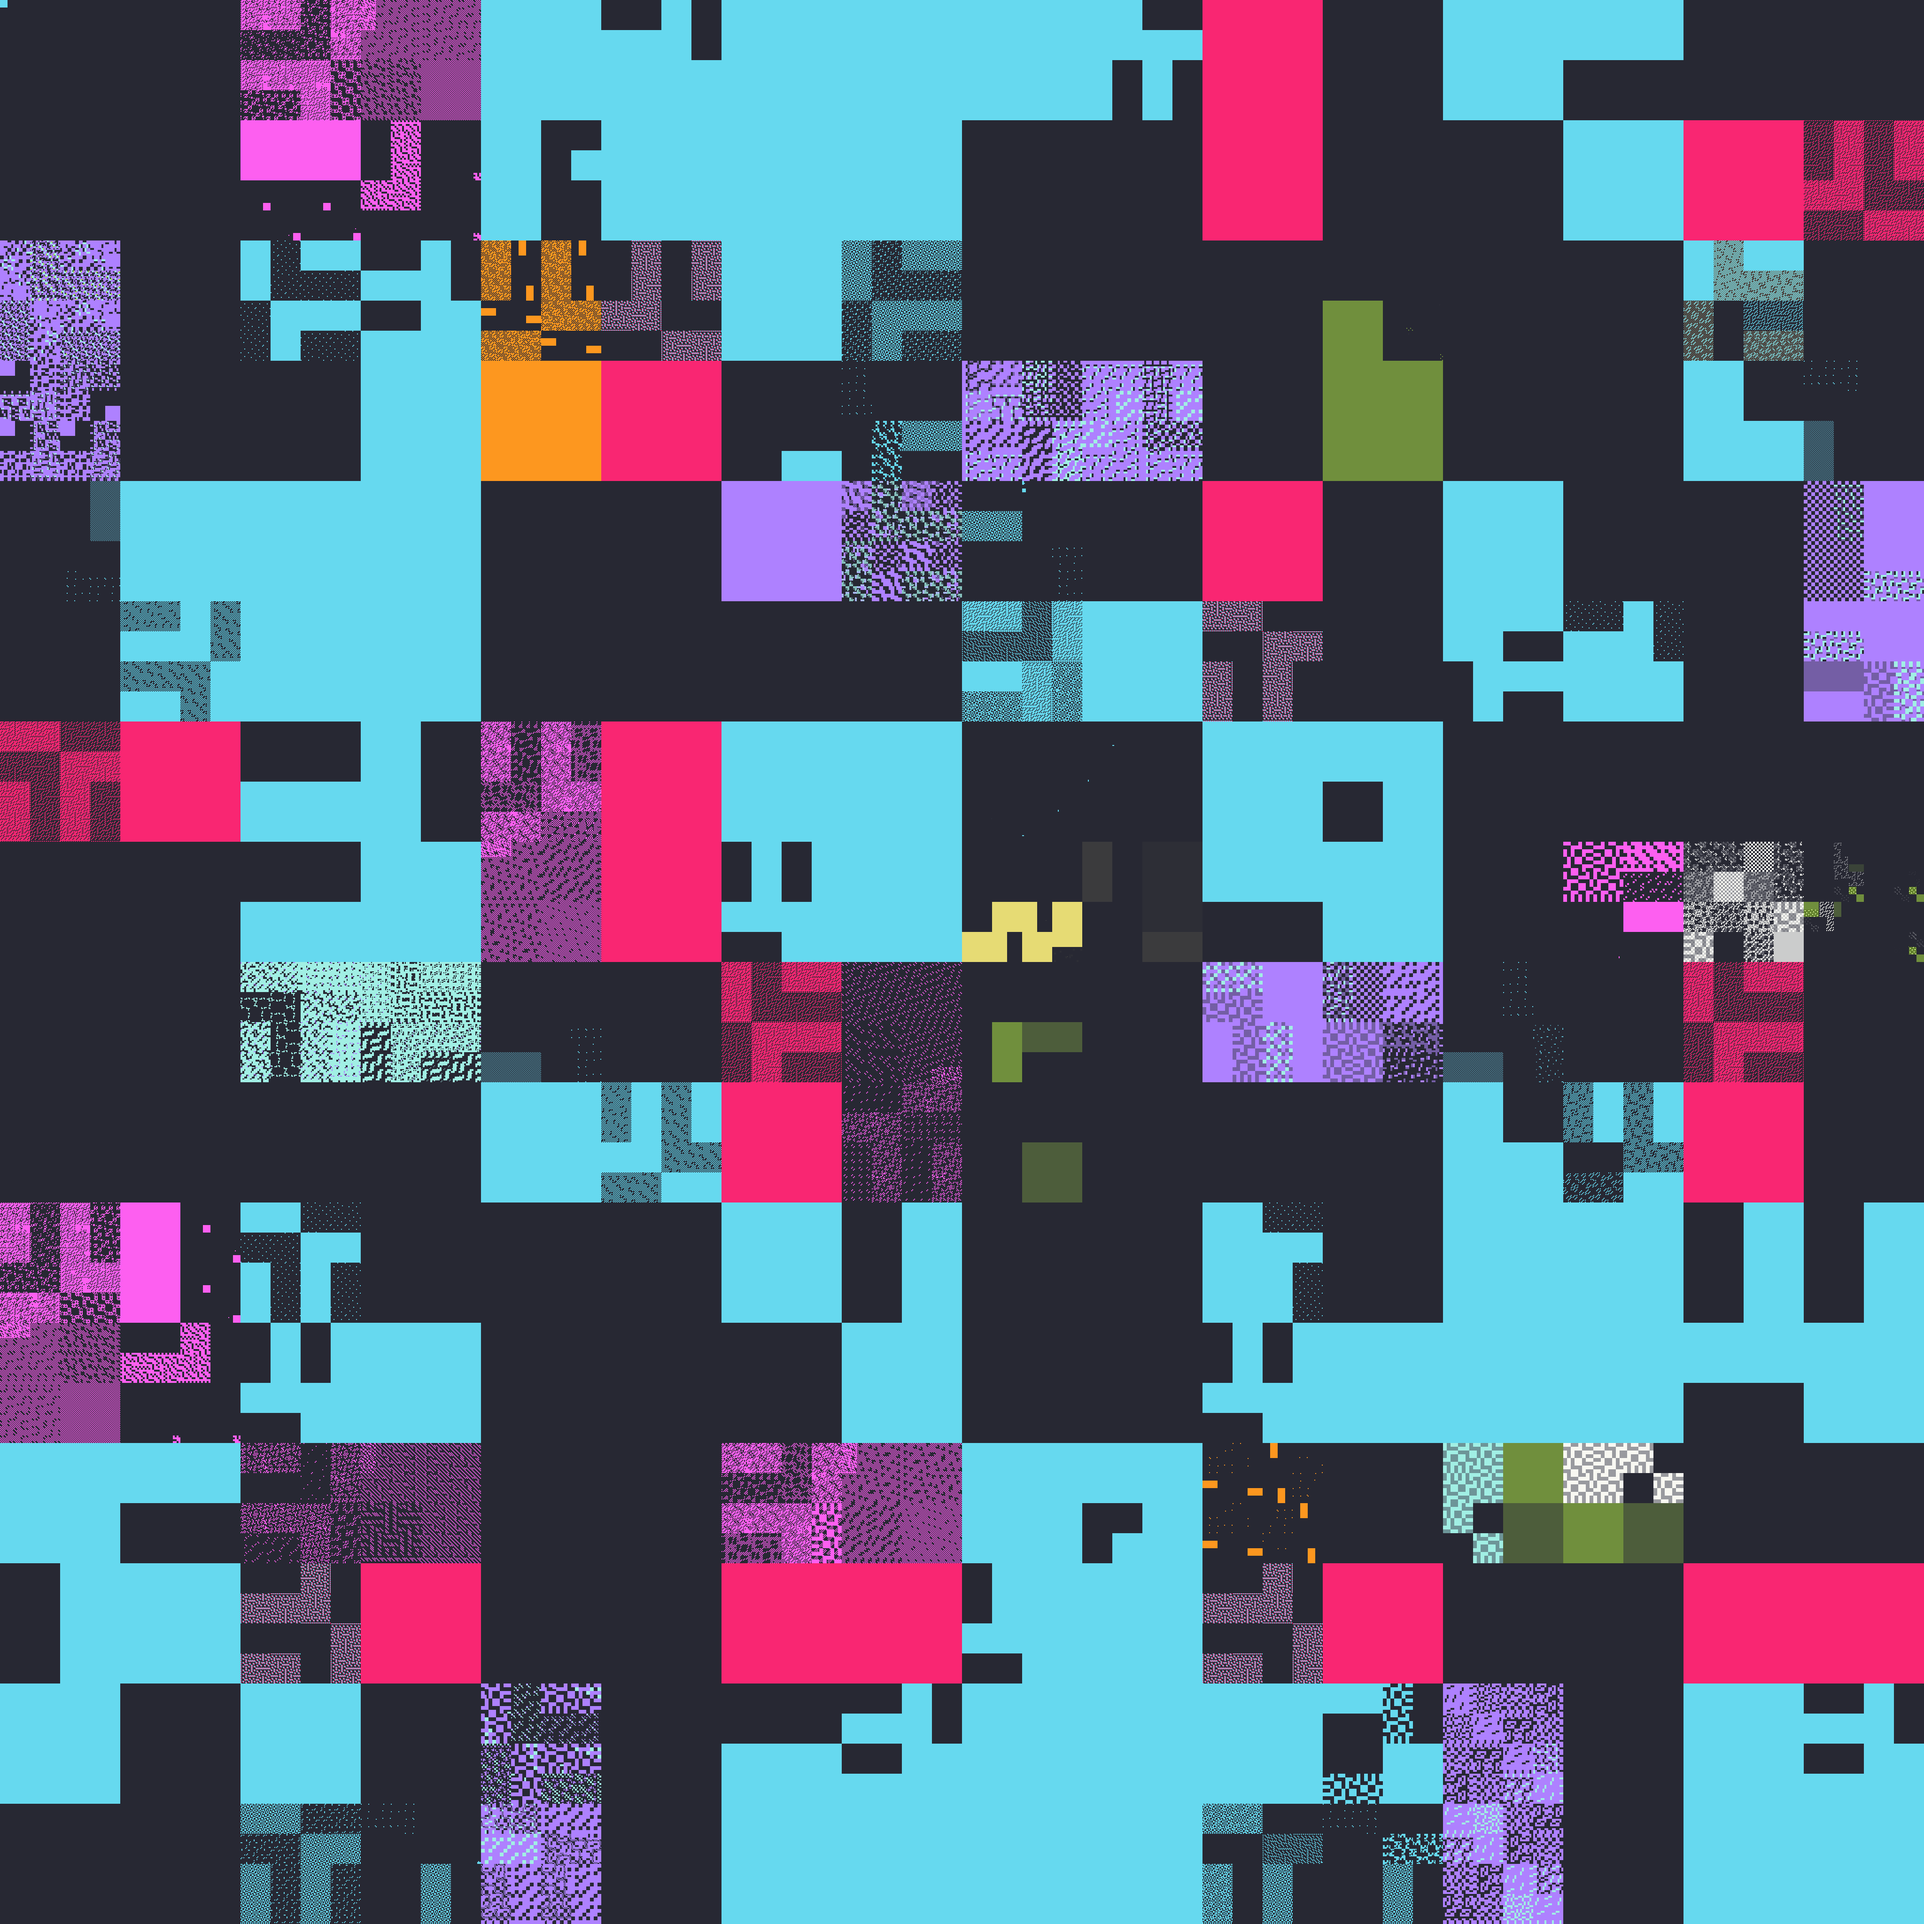
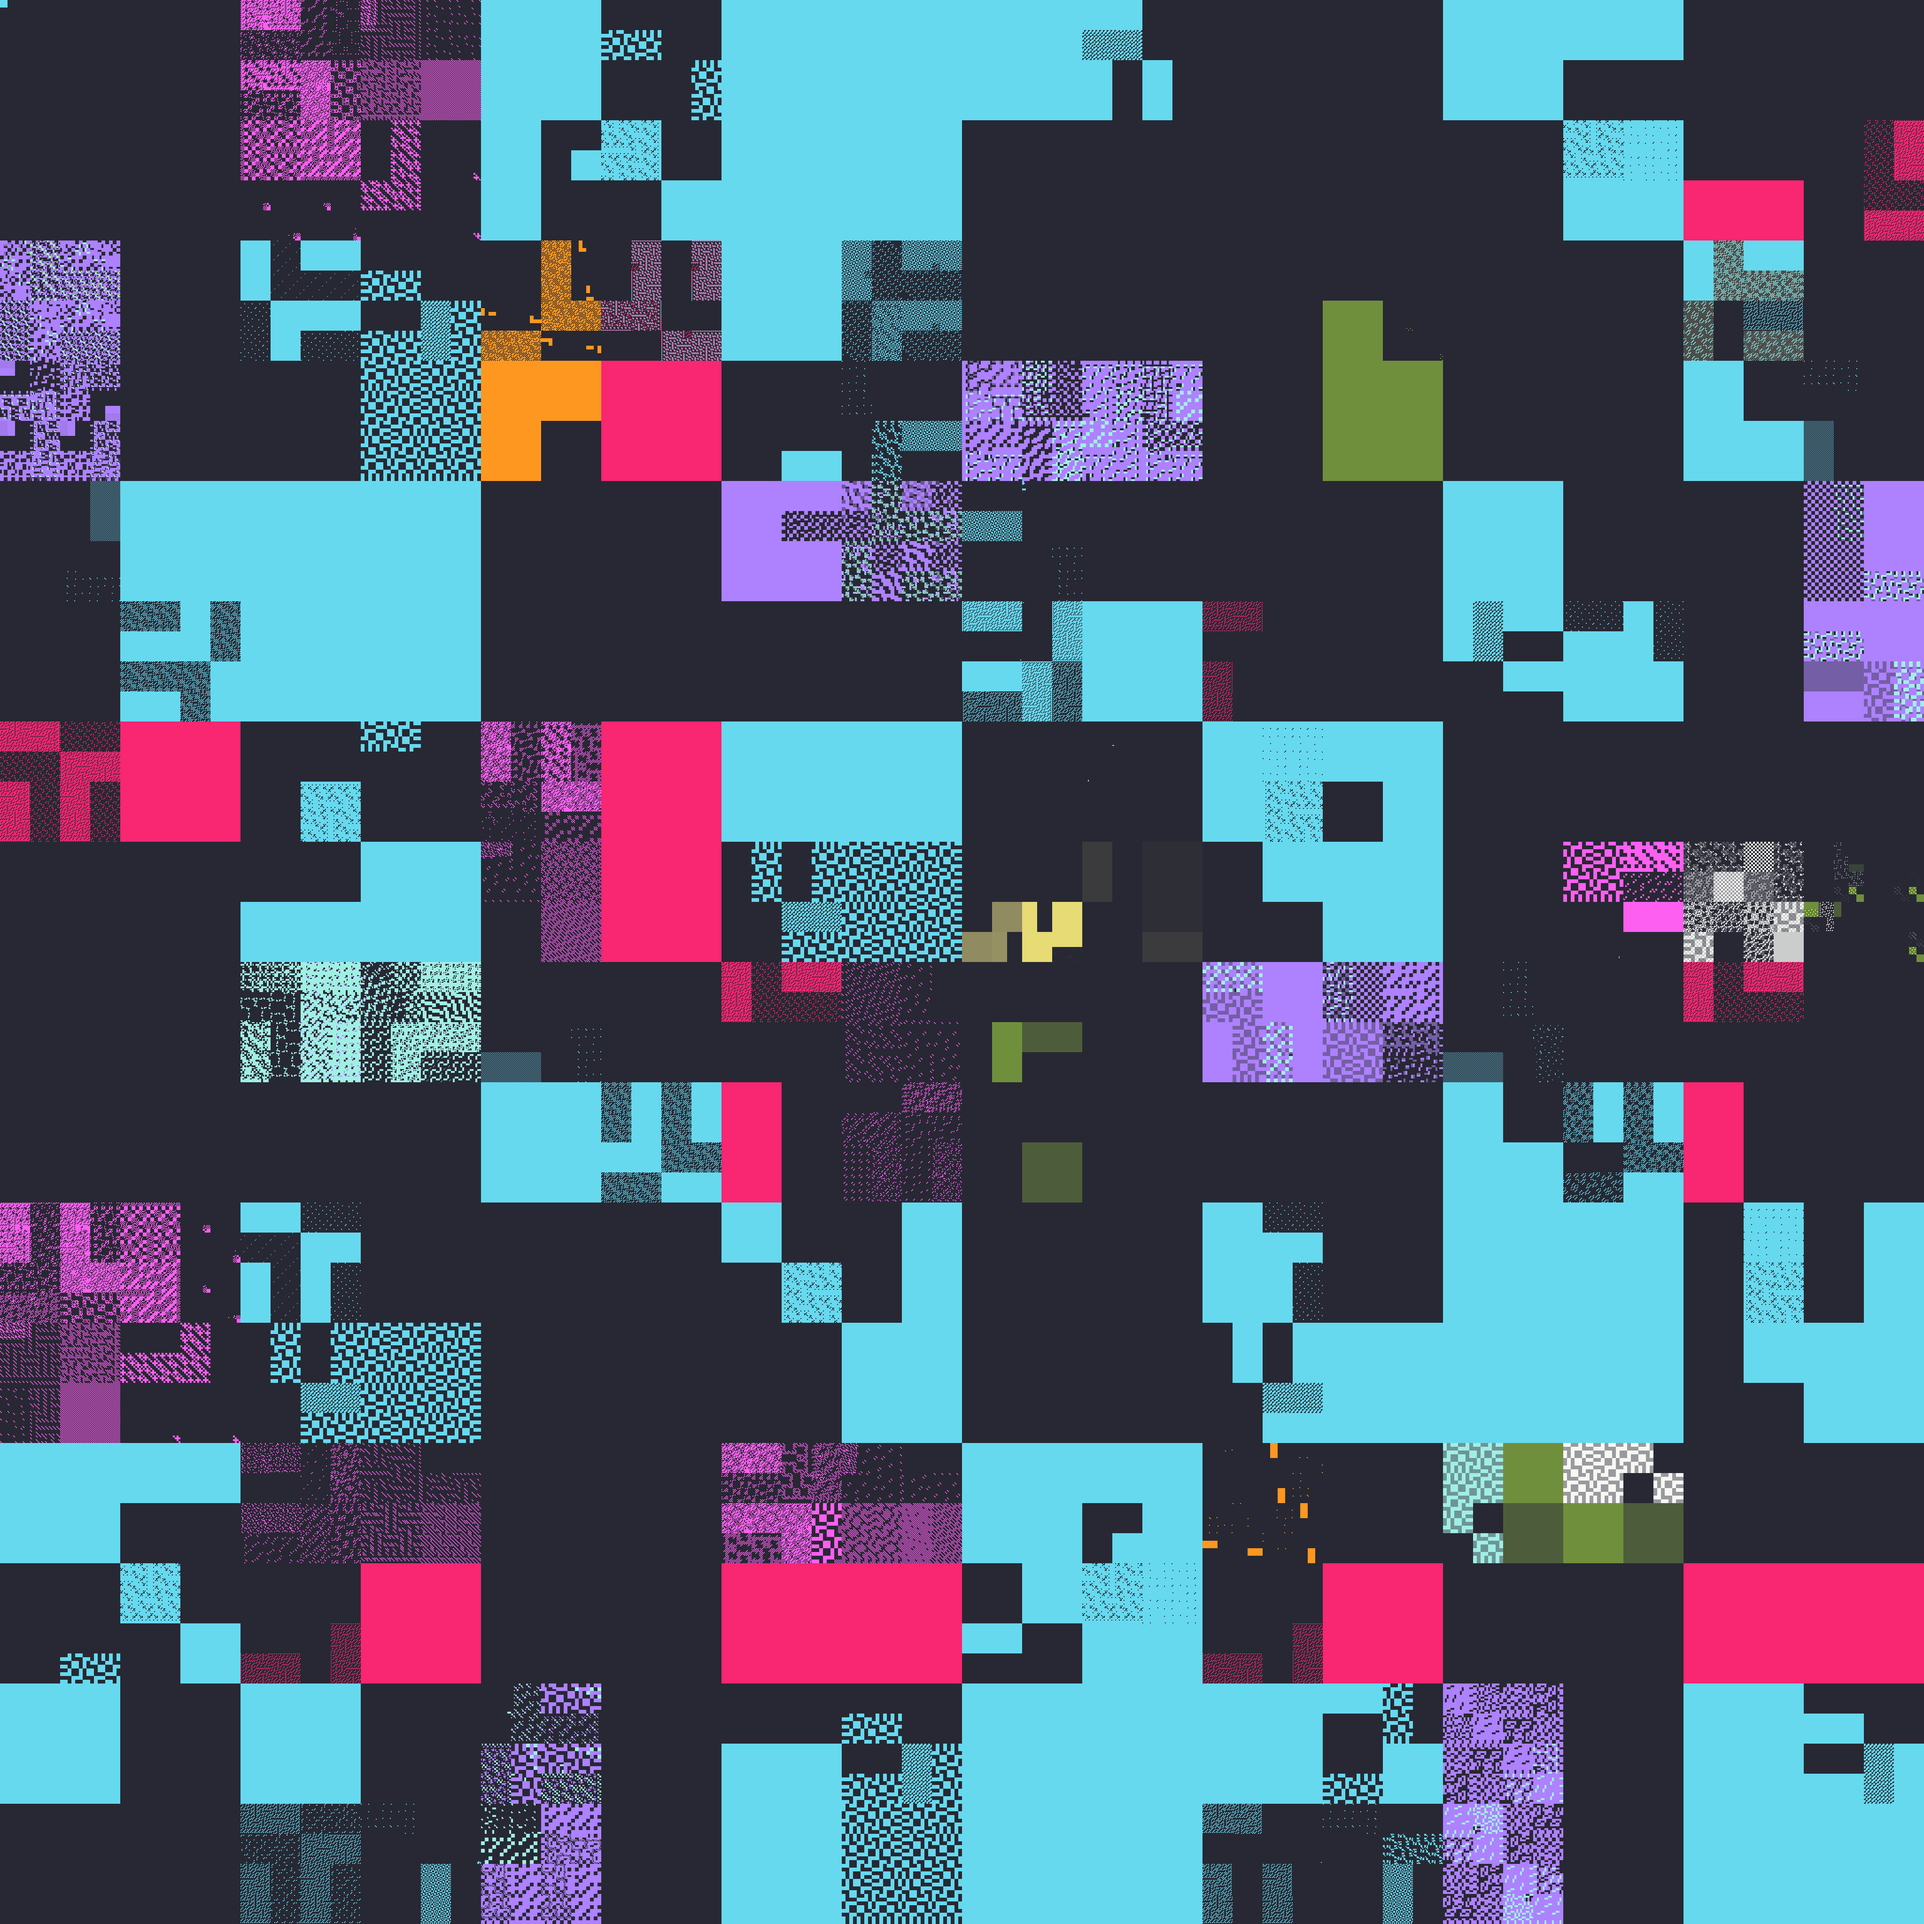
Add post processing pass

diff --git a/postprocess/capstone.c b/postprocess/capstone.c
@@ -1,0 +1,44 @@
+#include <fcntl.h>
+#include <capstone/capstone.h>
+#include <string.h>
+#include <unistd.h>
+#include <stdint.h>
+#include <sys/mman.h>
+
+int main(int argc, char* argv[]) {
+    csh handle;
+    if (cs_open(CS_ARCH_AARCH64, CS_MODE_ARM, &handle) != CS_ERR_OK) {
+        fprintf(stderr, "could not open arm64 disassembler\n");
+        return 1;
+    }
+    size_t n_verify = 0x0ffffffffULL + 1;
+    int fd = open(argv[1], O_RDWR);
+    if (fd < 0) {
+        perror("open");
+    }
+
+    int16_t* data = mmap(NULL, n_verify * sizeof(int16_t), PROT_READ | PROT_WRITE, MAP_SHARED, fd, 0);
+    if (data == (int16_t*) -1) {
+        perror("mmap");
+    }
+
+    size_t size = sizeof(uint32_t);
+    for (size_t i = 0; i < n_verify; i++) {
+        if (i % 10000000 == 0) {
+            printf("%.3f\n", (float) i / (float) n_verify * 100);
+        }
+        if (data[i] != -1) {
+            cs_insn* insn;
+            uint32_t idat = (uint32_t) i;
+            size_t count = cs_disasm(handle, (const uint8_t*) &idat, size, 0, 1, &insn);
+            if (count != 1) {
+                data[i] = -1;
+                continue;
+            }
+            cs_free(insn, 1);
+        }
+    }
+    close(fd);
+
+    return 0;
+}

diff --git a/cmd/arm-map/main.go b/cmd/arm-map/main.go
@@ -14,6 +14,11 @@ import (
 // map format is
 // <32-bit value> (<class>:<subclass>:<count> )*
 
+type line struct {
+	class    uint16
+	subclass uint16
+}
+
 func main() {
 	armdat := flag.String("data", "arm64.dat", "full arm64 data file")
 	armjson := flag.String("json", "arm64.json", "arm64 JSON encodings file")
@@ -39,7 +44,7 @@ func main() {
 		log.Fatal(err)
 	}
 	log.Println("mapping...")
-	classes := make([]uint16, mra.InstrNumIDs+1)
+	classes := make([]line, mra.InstrNumIDs+1)
 	n := 256
 	for i := 0; i < len(b); i += n {
 		if i%10000000 == 0 {

diff --git a/README.md b/README.md
@@ -33,6 +33,7 @@ $ arm-classify MRA_ISA > data/arm64.json
 $ go run cmd/arm-gen/decode_gen.go data/arm64.json > cmd/arm-gen/decode.go # regenerate decode.go
 $ go install ./cmd/arm-gen # rebuild arm-gen
 $ arm-gen -o data/arm64.dat
+$ make -C capstone && ./postprocess/capstone data/arm64.dat
 $ arm-map -data data/arm64.dat -json data/arm64.json > data/arm64.map
 $ arm-vis -o img/arm64.png -theme monokai data/arm64.map
 ```
